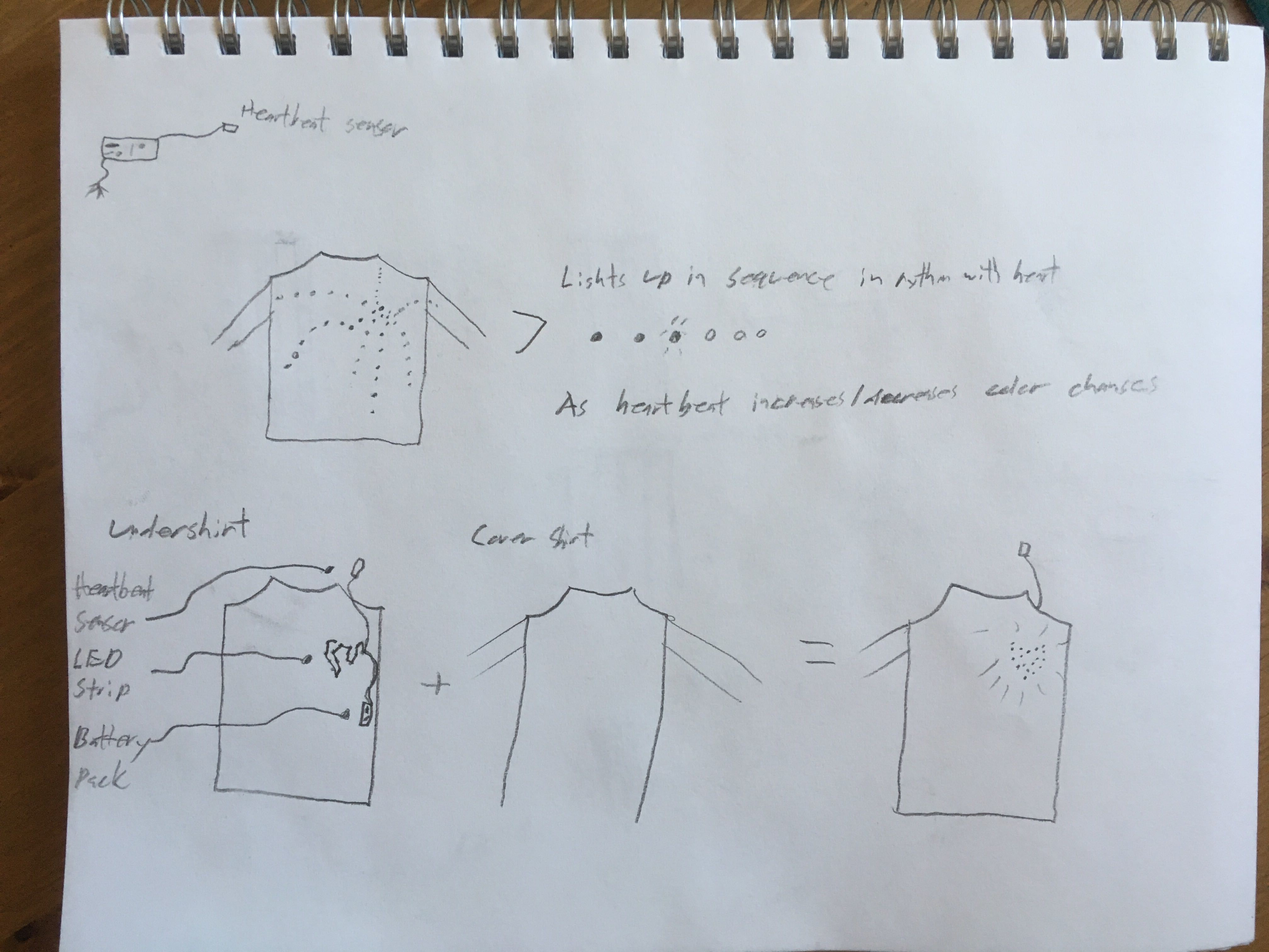
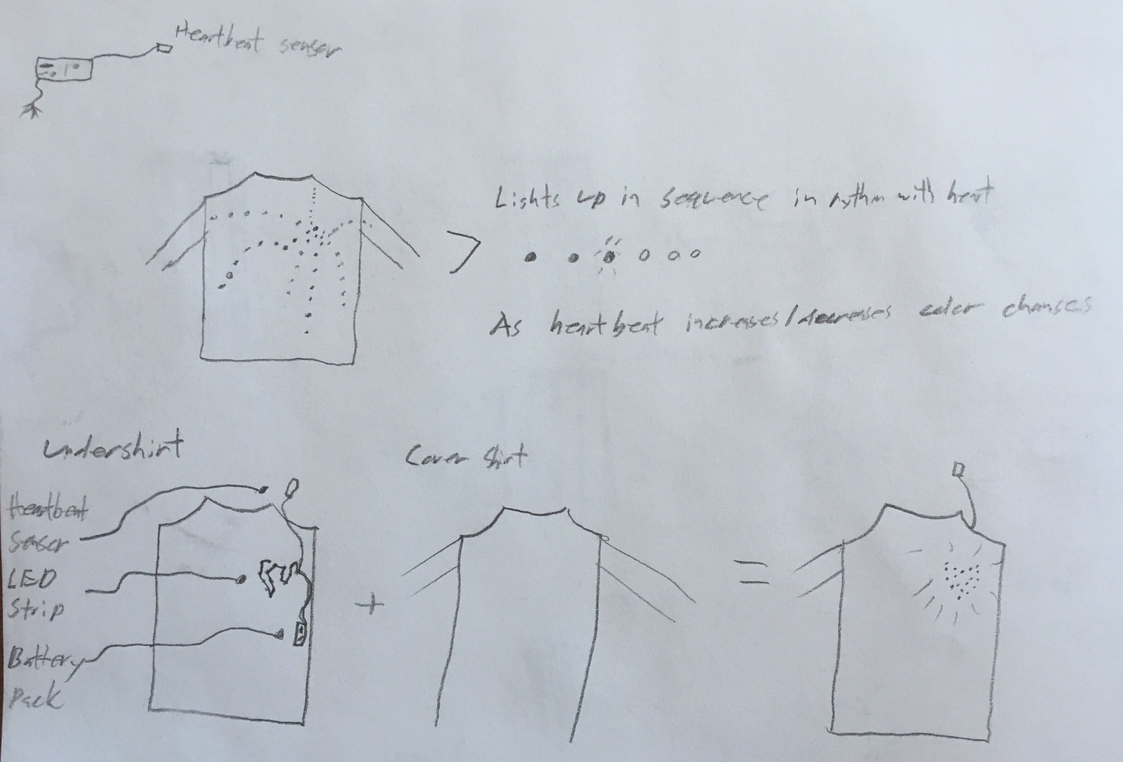
Project 3 Update

diff --git a/CPSC581.html b/CPSC581.html
@@ -177,7 +177,7 @@
                 <h5 class="card-title">Project 2: Washing Machine Notifier</h5>
 
                 <!-- Project: Brief Descrption -->
-                <p class="card-text"> A project built using arduino that allows a user to be notified when their laundry is done. </p>
+                <p class="card-text"> A project built using Arduino that allows a user to be notified when their laundry is done. </p>
               </div>
 
               <!--Project Tags  -->
@@ -878,8 +878,8 @@
 
               <div class="col col-md-12 col-12">
                 <h4>Initial Sketches:</h4>
-                <p>     For this project, each member of the group started out by sketching 10 different ideas. This project required us to solve an 'everyday' problem, using an arduino and some type of sensor. For my ideas, I found a lot of the ones I thought up of involved some kind of app, which turned out being more complicated to implement. However I found that the ideas involving an app were the ones I was most likely to use. My initial designs can be seen here. (Still working on getting them to rotate!)  </p>
-
+                <p> The purpose of this project was to create a fashion technology garment using Arduino. To come up with a large selection of ideas to choose from we each sketched 10 different ideas. For my initial sketches I thought of primarily LEDs as the output, as this would be the most feasible to implement given the resources available to us. Some of my ideas involved inputs such as geo-location, touch, heartbeat, light, or a specific motion. I liked the idea of having visual feedback with the lights in response to some input, so a lot of my ideas contained some form of lights turning on in sync with the users input.
+                </p>
 
 
               </div>
@@ -915,10 +915,8 @@
 
             </div>
             <br>
-
-
             <br>
-            <br>
+
 
             <!-- Refinement -->
             <h4>Further Sketching and Iteration:</h4>
@@ -926,7 +924,8 @@
 
 
               <div class="col col-md-6 col-12">
-                <p> Once we all generated lots of different ideas, we met in class to discuss our favorites, and then presented them to class. After receiving class feedback, we decided to go sketch some more iterations for the backpack-based sensor/notification idea, and the washing machine sensor/notification idea (which is what we ended up going with). Here are some of the sketches from this stage: </p>
+                <p> We met in class after having sketched out different ideas, to compare and receive feedback from to choose good ideas to further iterate with. We presented our favorites to the class and based on feedback we received decided to sketch some more ideas for a LED heartbeat idea and a LED hair extension idea. Here are the sketches for these ideas:
+                </p>
 
 
 
@@ -951,6 +950,13 @@
                 <br>
                 <br>
 
+                <figure class="figure">
+                  <img src="./imgs/cpsc581/p3/Zachsketch2.jpg" class="figure-img img-fluid rounded">
+                  <figcaption class="figure-caption"> (Sketch by Me)</figcaption>
+                </figure>
+                <br>
+                <br>
+
 
 
 
@@ -968,14 +974,14 @@
                 <br>
 
                 <figure class="figure">
-                  <img src="./imgs/cpsc581/p2/Bryansketch1.png" class="figure-img img-fluid rounded">
+                  <img src="./imgs/cpsc581/p3/Bryansketch1.png" class="figure-img img-fluid rounded">
                   <figcaption class="figure-caption"> (Sketch by Bryan)</figcaption>
                 </figure>
                 <br>
                 <br>
 
                 <figure class="figure">
-                  <img src="./imgs/cpsc581/p2/Bryansketch2.png" class="figure-img img-fluid rounded">
+                  <img src="./imgs/cpsc581/p3/Bryansketch2.png" class="figure-img img-fluid rounded">
                   <figcaption class="figure-caption"> (Sketch by Bryan)</figcaption>
                 </figure>
                 <br>
@@ -989,12 +995,6 @@
                   <br>
                   <br>
 
-                  <figure class="figure">
-                    <img src="./imgs/cpsc581/p3/Zachsketch2.jpg" class="figure-img img-fluid rounded">
-                    <figcaption class="figure-caption"> (Sketch by Me)</figcaption>
-                  </figure>
-                  <br>
-                  <br>
                 </div>
 
 
@@ -1009,7 +1009,7 @@
             <br>
 
             <!-- Refinement -->
-            <h4>Implementation:</h4>
+            <h4>Design & Implementation:</h4>
 
 
             <br>
@@ -1017,10 +1017,25 @@
             <div class="row">
               <div class="col col-md-12 col-12">
 
-                <p> After reviewing our refined sketches and discussing some more, we decided to go forward with the washing machine idea. The idea for this was to have a sensor on the washing machine that could notify the user once it had finished. Many people find it annoying to leave their clothes in the washer or dryer, which can leave them with mildew or wrinkles. This product solves that problem, but notifiying a person when the cycle of the machine is done. Ideally, there would be a sensor on each of the washer and dryer, as well as a receiver for each household memeber, but due to limited time and materials we only made one sensor and receiver. We wanted it to be discrete for the user, so we encased both the sensor on the washing machine and the receiver held by the user in black boxes to hide the wires. Inside the first box, which is placed on the washing machine with magnets, contains the vibration sensor and has the on/off switch, which once activated, will signal the user once the washing machine cycle has ended. The box that is carried on the user has a light and a buzzer that lights up and plays a Mario-themed song to let the user know when the washing machine is finished.
+                <p> After reviewing the refined sketches, we discussed how each might be implemented and decided that we could best implement the heartbeat sensor idea both aesthetically and functionally. Once we decided on that idea to go forward with, we discussed some possibilites for the design.
+                  <br>
+                  <br>
+
+                  We wanted the the heartbeat to be visible when on, but didn't want it stand out when it was off. To accomplish this we decided to stitch (and later glue) the lights to an undershirt, and then have another shirt to go on top (seen below). This way we could shape the lights into a heart on the undershirt without worrying about hiding wires. Some other things we tried to make the lights look better included black felt and tape, but we eventually used glue to hold the wires down, which allowed the light defuse more evenly and more resemble the shape of a heart through the top shirt.
+
                 <br>
                 <br>
-                For implementing this project, we largely worked in the lab to brainstorm, design, program, and debug, since there was only one arduino board that could be worked on. However, this proved to be productive and we were able to finish the majority of the project in the lab.
+
+                For the code design, we were able to utilize some PulseSensor examples and online tutorials to figure out how to monitor both the heartbeat and heartrate. We wanted the heartrate level to correspond with different colors in the LED strip to visibly indicate that the heartrate is low (below 70), medium (70-100), or high (over 100), so we programmed the LED strip to change colors (once a BPM could be calculated) according to the wearers heartrate.
+
+                <br>
+                <br>
+
+                The idea behind this project was to have a visible representation of the wearers heartbeat. To accomplish this we programmed the LEDs to 'pulse' in succession, to show the speed of the heartbeat but still maintain the shape of a heart. A heartbeat also reveals information about the wearers state, so to represent this we had a darker blue color which suggests a calmer aura. As the the hearbeat increases the color changes to Magenta and the a bright red which suggests more actvity. We liked the clean look of a white t-shirt, which would also allow the LED lights to brightly enough, while being thick enough to hide them when off.
+
+                <br>
+                <br>
+
 
 
                 </p>
